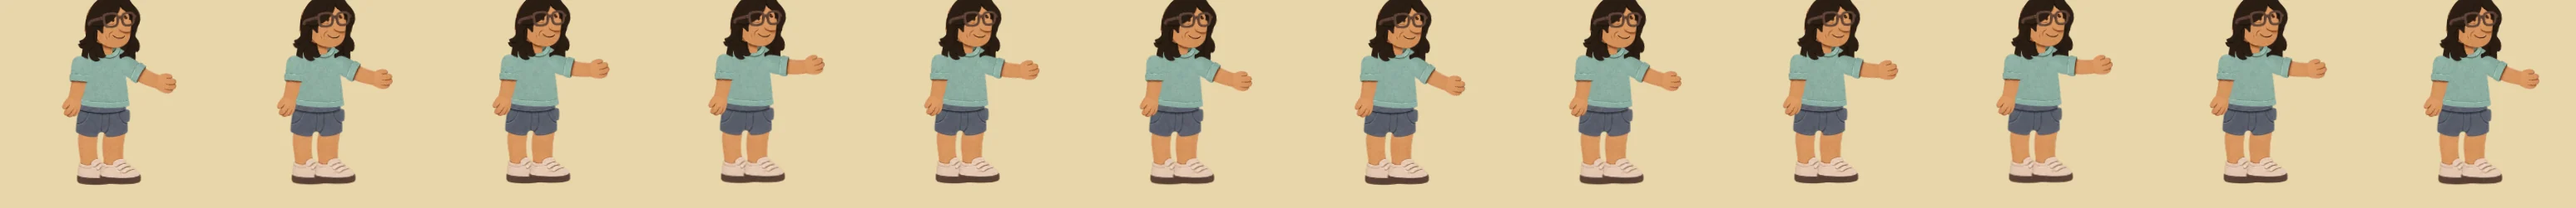
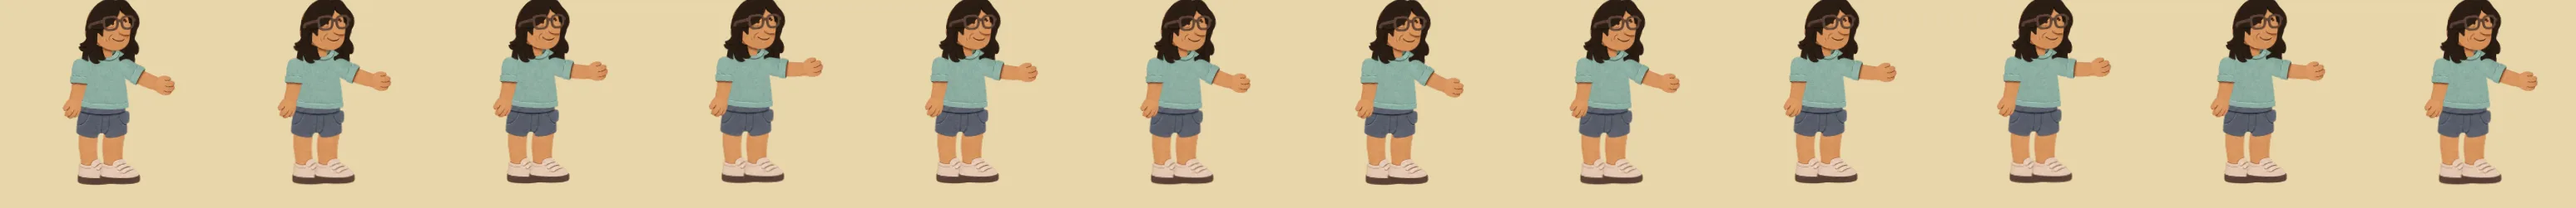
Crew Kit 01: final bench results, evidence from the final-size build
Bo, Ines and Chuy pass 28 of 28 on the kit test build at stature 0.98. Ro 28 of 28, Theo 27 of 28
(near miss on his walk stop, as in batch 8). Lineup and in-game pictures refreshed.

Claude-Session: https://claude.ai/code/session_012HJvzwjcwyQZtqkxv1hzkB

diff --git a/docs/project/Crew-Kit-01-Validation.md b/docs/project/Crew-Kit-01-Validation.md
@@ -11,7 +11,7 @@ The main build is unchanged. Kit crew are in a separate kit test build so the lo
 | Picture | What it shows |
 | --- | --- |
 | `docs/kit/lineup-12.png` | Twelve kit people next to Ro and Theo, at one scale |
-| `docs/kit/before-after.png` | The kit as delivered on template A, and after fit A2, next to Ro and Dani |
+| `docs/kit/before-after.png` | The kit as delivered on template A, and after fit A2, next to Ro and Dani (made before the 2 percent size trim) |
 | `docs/kit/head-layers.png` | Every hair, hat, beard and glasses combination on both heads |
 | `docs/kit/recolor-sheet.png` | Every piece across the skin, hair and clothing palettes |
 | `docs/qa/kit01/` | Kit crew in the game: the shoot on a phone and a tablet, the hire cards, a walk strip and a work strip |
@@ -97,8 +97,10 @@ The ten were given kit looks close to the game's descriptions of them, with tees
 | Test | Result |
 | --- | --- |
 | Unit tests | 101 pass (2 new) |
-| Kit test build in a browser, phone and tablet | Hire cards show all ten with head crops that fit. Lee, Inés and Chuy hired, on set, walking and working next to Lu, the Client and the Agency. No page errors |
-| Art bench, first run | Inés 26 of 28 and Bo 25 of 28. The misses were the turn-around reading as a pop (a measuring fault, fixed below), Bo standing 53.6 units tall in his cap against a limit of 53 (fixed by the 0.98 size), and the control puppet sharing a name with a kit person. A rerun on the final build is in progress |
+| Kit test build in a browser, phone and tablet | Hire cards show the kit crew offered for the job (Inés, Sam, Bo, Lee, Max, Chuy and Vera) with head crops that fit. Lee, Inés and Chuy hired, on set, walking and working next to Lu, the Client and the Agency. No page errors |
+| Art bench on the final kit build | Bo, Inés and Chuy each pass 28 of 28: feet on the mark, heights 50.2 to 52.5 units (the crew range is 44 to 53), the working arm reaches 13.1 units, the head crop fits the hire card, the walk starts and stops cleanly |
+| Art bench, first run | Inés 26 of 28 and Bo 25 of 28. The misses were a measuring fault at the turn-around (fixed, below), Bo standing 53.6 units tall in his cap (fixed by the 0.98 size), and the control puppet sharing a name with a kit person (fixed, below) |
+| Regression | Ro 28 of 28. Theo 27 of 28: his walk start is clean now, his stop scores 0.976 against a bar of 0.98, the same near miss as in batch 8, in his own art |
 
 Two fixes to the bench came out of this run. The walk check compared the standing frame with the first walking frame even when the person had just turned around, which scored any one-sided silhouette (long hair, a cap's brim) as a pop. It now compares against the mirrored frame as well. The control puppet was named Paz, who is now a kit person in the test build, so it has a name that is not on the roster.
 

diff --git a/docs/project/Art-Batch-8-Validation.md b/docs/project/Art-Batch-8-Validation.md
@@ -49,7 +49,7 @@ Two small additions to the engine made this data-driven: a character's settings 
 | Full shoot in a browser, phone landscape, crew hired | Pass. New check: Client and Agency are on the delivered rig and the Agency holds her latte |
 | Art bench, Agency | 28 of 28 |
 | Art bench, Receptionist | 28 of 28 |
-| Art bench, Theo | 27 of 28. Walk start scored 0.96 against a bar of 0.98 for "no pop". By eye the walk is clean (`docs/qa/batch8/theo-walk-strip.webp`) |
+| Art bench, Theo | 27 of 28. Walk start scored 0.96 against a bar of 0.98 for "no pop". By eye the walk is clean (`docs/qa/batch8/theo-walk-strip.webp`). Later the same day the bench was fixed to allow for the turn-around at the start of a trip (Crew-Kit-01-Validation.md). Theo's start then passes and his stop scores 0.976, still a near miss |
 | Art bench, Client | 27 of 28. Her working reach is 4.5 units against a bar of 6, because her near arm is the one that reaches. She never works on set |
 | Art bench, Ro (regression) | 28 of 28 |
 
